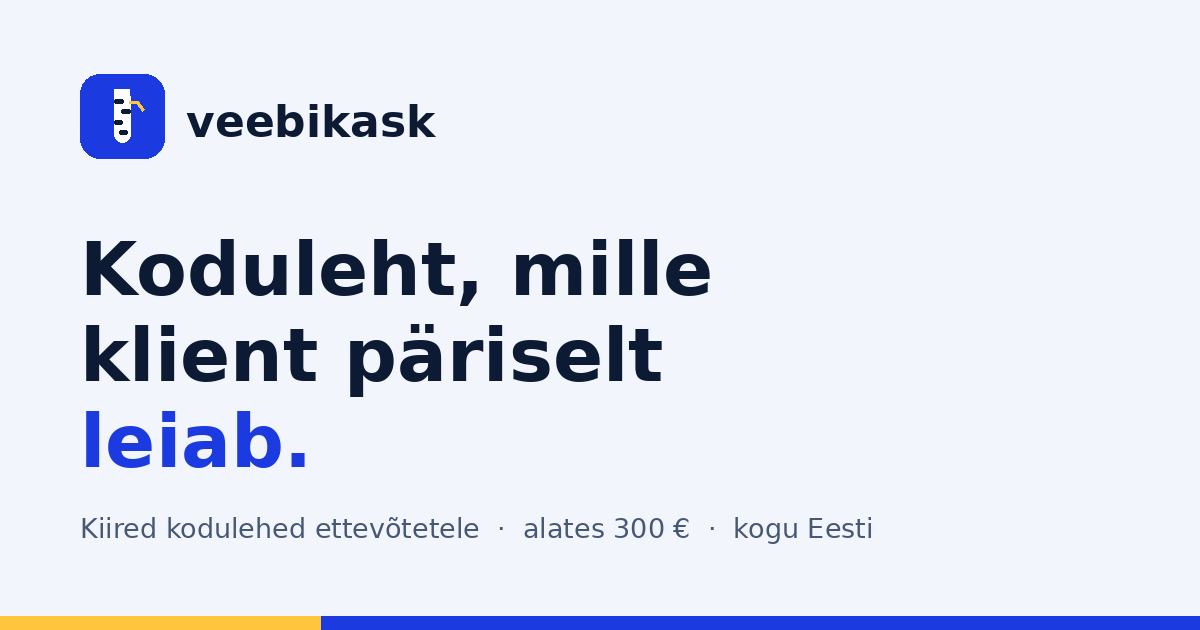
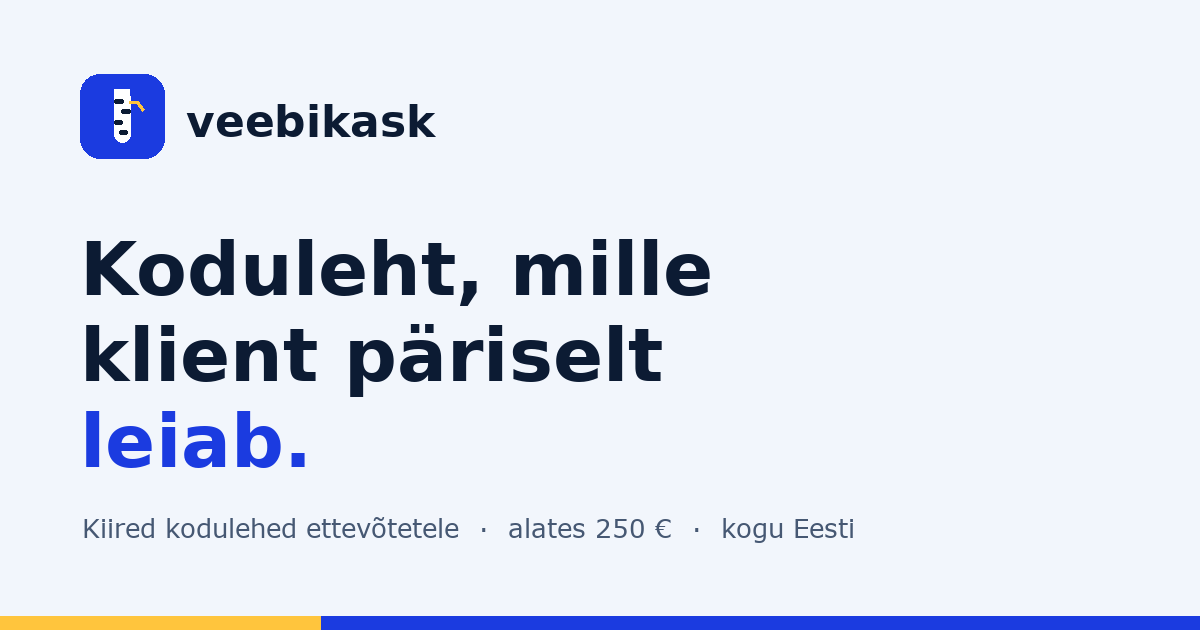
Langeta ühelehelise kodulehe hind 250 eurole

Changed region(s): [[0.0617, 0.8143, 0.4008, 0.8746], [0.4317, 0.8143, 0.74, 0.8746]]

diff --git a/index.html b/index.html
@@ -4,8 +4,8 @@
 <meta charset="utf-8">
 <meta name="viewport" content="width=device-width, initial-scale=1">
 
-<title>Kodulehe tegemine alates 300 € | Kiired kodulehed ettevõttele – Veebikask</title>
-<meta name="description" content="Kodulehe tegemine ettevõttele alates 300 €. Kiire, mobiilne ja Google'is leitav üheleheline koduleht kuni nädalaga. Teenindan kogu Eestit. Küsi hinnapakkumist.">
+<title>Kodulehe tegemine alates 250 € | Kiired kodulehed ettevõttele – Veebikask</title>
+<meta name="description" content="Kodulehe tegemine ettevõttele alates 250 €. Kiire, mobiilne ja Google'is leitav üheleheline koduleht kuni nädalaga. Teenindan kogu Eestit. Küsi hinnapakkumist.">
 <link rel="canonical" href="https://veebikask.ee/">
 <meta name="robots" content="index,follow,max-image-preview:large,max-snippet:-1">
 <meta name="author" content="Veebikask">
@@ -14,7 +14,7 @@
 <meta property="og:type" content="website">
 <meta property="og:site_name" content="Veebikask">
 <meta property="og:locale" content="et_EE">
-<meta property="og:title" content="Kodulehe tegemine alates 300 € | Veebikask">
+<meta property="og:title" content="Kodulehe tegemine alates 250 € | Veebikask">
 <meta property="og:description" content="Kiire ja Google'is leitav koduleht ettevõttele. Valmis kuni nädalaga. Teenindan kogu Eestit.">
 <meta property="og:url" content="https://veebikask.ee/">
 <meta property="og:image" content="https://veebikask.ee/pildid/jagapilt.png">
@@ -23,7 +23,7 @@
 <meta property="og:image:alt" content="Veebikase kodulehtede näidised sülearvuti ekraanil">
 
 <meta name="twitter:card" content="summary_large_image">
-<meta name="twitter:title" content="Kodulehe tegemine alates 300 € | Veebikask">
+<meta name="twitter:title" content="Kodulehe tegemine alates 250 € | Veebikask">
 <meta name="twitter:description" content="Kiire ja Google'is leitav koduleht ettevõttele. Valmis kuni nädalaga.">
 <meta name="twitter:image" content="https://veebikask.ee/pildid/jagapilt.png">
 
@@ -48,7 +48,7 @@
       "name":"Veebikask",
       "legalName":"Veebikask OÜ",
       "identifier":"17567171",
-      "description":"Kodulehtede tegemine ettevõtetele üle Eesti. Kiired, mobiilsed ja otsingumootoritele optimeeritud kodulehed alates 300 eurost.",
+      "description":"Kodulehtede tegemine ettevõtetele üle Eesti. Kiired, mobiilsed ja otsingumootoritele optimeeritud kodulehed alates 250 eurost.",
       "url":"https://veebikask.ee/",
       "telephone":"+37256938020",
       "email":"veebikask@gmail.com",
@@ -66,7 +66,7 @@
             "@type":"Offer",
             "name":"Üheleheline koduleht",
             "description":"Üks pikk leht kõige vajalikuga: tutvustus, teenused, galerii, kontakt. Tehniline SEO baas ja mobiilivaade sees.",
-            "price":"300","priceCurrency":"EUR",
+            "price":"250","priceCurrency":"EUR",
             "url":"https://veebikask.ee/pakett-uheleheline.html",
             "availability":"https://schema.org/InStock"
           },
@@ -94,7 +94,7 @@
       "@id":"https://veebikask.ee/#kkk",
       "mainEntity":[
         {"@type":"Question","name":"Kui palju maksab koduleht?",
-         "acceptedAnswer":{"@type":"Answer","text":"Üheleheline koduleht algab 300 eurost ja mitmeleheline äriline koduleht 500 eurost. Lisad nagu hinnapäringu vorm või broneerimiskalender maksavad 0–100 eurot olenevalt mahust. Lõplik hind sõltub sellest, kui palju sisu ja funktsioone vaja on."}},
+         "acceptedAnswer":{"@type":"Answer","text":"Üheleheline koduleht algab 250 eurost ja mitmeleheline äriline koduleht 500 eurost. Lisad nagu hinnapäringu vorm või broneerimiskalender maksavad 0–100 eurot olenevalt mahust. Lõplik hind sõltub sellest, kui palju sisu ja funktsioone vaja on."}},
         {"@type":"Question","name":"Kui kaua kodulehe tegemine aega võtab?",
          "acceptedAnswer":{"@type":"Answer","text":"Mõlemad paketid valmivad maksimaalselt nädalaga. See on ülempiir, mitte hinnang. Kiiruse määrab peamiselt see, kui ruttu saan sinult fotod ja info."}},
         {"@type":"Question","name":"Kas ma pean ise domeeni ja majutuse eest hoolitsema?",
@@ -135,14 +135,14 @@
       <div>
         <p class="silt">Kodulehed · kogu Eesti</p>
         <h1>Koduleht, mille klient <em>päriselt leiab</em>.</h1>
-        <p class="juhe">Teen kiireid ja korralikke kodulehti firmadele ja eraisikutele. Alates 300 eurost, valmis maksimaalselt nädalaga ja Google leiab su üles.</p>
+        <p class="juhe">Teen kiireid ja korralikke kodulehti firmadele ja eraisikutele. Alates 250 eurost, valmis maksimaalselt nädalaga ja Google leiab su üles.</p>
         <div class="hero-nupud">
           <a class="nupp" href="#paring">Küsi hinnapakkumist</a>
           <a class="nupp teine" href="#tood">Vaata tehtud töid</a>
         </div>
         <div class="usaldus">
           <div><b>1</b>nädal*</div>
-          <div><b>300 €</b>alghind</div>
+          <div><b>250 €</b>alghind</div>
           <div><b>100%</b>mobiilis töötav</div>
           <p class="taht">* kui fotod ja info on olemas</p>
         </div>
@@ -171,7 +171,7 @@
         <a class="kaart" href="pakett-uheleheline.html">
           <p class="kats">Pakett 01 · Üheleheline</p>
           <h3>Üks leht, kõik vajalik</h3>
-          <p class="hind">alates 300 €<small> / ühekordne</small></p>
+          <p class="hind">alates 250 €<small> / ühekordne</small></p>
           <ul>
             <li>Üks pikk leht ankurmenüüga</li>
             <li>Kuni kuus sektsiooni: tutvustus, teenused, tööd, kontakt</li>
@@ -306,7 +306,7 @@
           <label for="pakett">Milline pakett tundub sobivat?</label>
           <select id="pakett" name="pakett">
             <option value="Ei oska öelda">Ei oska veel öelda – soovita ise</option>
-            <option value="Üheleheline (alates 300 €)">Üheleheline – alates 300 €</option>
+            <option value="Üheleheline (alates 250 €)">Üheleheline – alates 250 €</option>
             <option value="Mitmeleheline (alates 500 €)">Mitmeleheline – alates 500 €</option>
           </select>
         </div>
@@ -397,7 +397,7 @@
       <div class="kkk">
         <details open>
           <summary>Kui palju koduleht maksab?</summary>
-          <p>Üheleheline algab 300 eurost, mitmeleheline 500 eurost. Lisad 0–100 € tükk, olenevalt mahust. Lõplik number sõltub sisu mahust – ütlen selle sulle enne alustamist välja, mitte pärast.</p>
+          <p>Üheleheline algab 250 eurost, mitmeleheline 500 eurost. Lisad 0–100 € tükk, olenevalt mahust. Lõplik number sõltub sisu mahust – ütlen selle sulle enne alustamist välja, mitte pärast.</p>
         </details>
         <details>
           <summary>Kui kaua see aega võtab?</summary>

diff --git a/pakett-uheleheline.html b/pakett-uheleheline.html
@@ -4,20 +4,20 @@
 <meta charset="utf-8">
 <meta name="viewport" content="width=device-width, initial-scale=1">
 
-<title>Üheleheline koduleht alates 300 € – mis on hinna sees | Veebikask</title>
-<meta name="description" content="Üheleheline koduleht ettevõttele alates 300 €. Vaata täpselt, mis hinna sees on: tehniline SEO baas, mobiilivaade, galerii, domeeni seadistus. Valmis maksimaalselt nädalaga.">
+<title>Üheleheline koduleht alates 250 € – mis on hinna sees | Veebikask</title>
+<meta name="description" content="Üheleheline koduleht ettevõttele alates 250 €. Vaata täpselt, mis hinna sees on: tehniline SEO baas, mobiilivaade, galerii, domeeni seadistus. Valmis maksimaalselt nädalaga.">
 <link rel="canonical" href="https://veebikask.ee/pakett-uheleheline.html">
 <meta name="robots" content="index,follow,max-image-preview:large">
 
 <meta property="og:type" content="article">
 <meta property="og:site_name" content="Veebikask">
 <meta property="og:locale" content="et_EE">
-<meta property="og:title" content="Üheleheline koduleht alates 300 € – mis on hinna sees">
-<meta property="og:description" content="Täpne ülevaade sellest, mida 300 euro eest saad ja mida ei saa.">
+<meta property="og:title" content="Üheleheline koduleht alates 250 € – mis on hinna sees">
+<meta property="og:description" content="Täpne ülevaade sellest, mida 250 euro eest saad ja mida ei saa.">
 <meta property="og:url" content="https://veebikask.ee/pakett-uheleheline.html">
 <meta property="og:image" content="https://veebikask.ee/pildid/jagapilt.png">
 <meta name="twitter:card" content="summary_large_image">
-<meta name="twitter:title" content="Üheleheline koduleht alates 300 €">
+<meta name="twitter:title" content="Üheleheline koduleht alates 250 €">
 <meta name="twitter:description" content="Mis on hinna sees ja mis mitte.">
 <meta name="twitter:image" content="https://veebikask.ee/pildid/jagapilt.png">
 
@@ -43,7 +43,7 @@
       "provider":{"@type":"ProfessionalService","name":"Veebikask","legalName":"Veebikask OÜ","identifier":"17567171","telephone":"+37256938020","url":"https://veebikask.ee/"},
       "areaServed":{"@type":"Country","name":"Eesti"},
       "description":"Üks pikk koduleht ankurmenüüga ettevõttele. Sisaldab tehnilist SEO baasi, mobiilivaadet, fotogaleriid ja domeeni seadistust.",
-      "offers":{"@type":"Offer","price":"300","priceCurrency":"EUR","url":"https://veebikask.ee/pakett-uheleheline.html","availability":"https://schema.org/InStock"}
+      "offers":{"@type":"Offer","price":"250","priceCurrency":"EUR","url":"https://veebikask.ee/pakett-uheleheline.html","availability":"https://schema.org/InStock"}
     },
     {
       "@type":"BreadcrumbList",
@@ -77,7 +77,7 @@
     <div class="kest">
       <p class="leivapuru"><a href="index.html">Avaleht</a> / Üheleheline koduleht</p>
       <p class="silt">Pakett 01</p>
-      <h1 style="max-width:17ch">Üheleheline koduleht alates 300 €</h1>
+      <h1 style="max-width:17ch">Üheleheline koduleht alates 250 €</h1>
       <p class="juhe" style="margin-top:16px">Üks pikk leht, kus on kõik olulisem: kes sa oled, mida teed, millised tööd on tehtud ja kuidas ühendust võtta. Sobib firmale, kellel praegu kodulehte pole või kellel on ainult Facebooki leht.</p>
       <p style="margin-top:26px"><a class="nupp" href="index.html#paring">Küsi hinnapakkumist</a></p>
     </div>

diff --git a/koduleht-ehitusfirmale.html b/koduleht-ehitusfirmale.html
@@ -5,7 +5,7 @@
 <meta name="viewport" content="width=device-width, initial-scale=1">
 
 <title>Koduleht ehitusfirmale &ndash; mida see peab sisaldama? | Veebikask</title>
-<meta name="description" content="Koduleht ehitusfirmale alates 300 &euro;. Mida ehitusettevõtte koduleht peab sisaldama, miks fotod on olulisemad kui tekst ja kuidas jõuda Google'i pildiotsingusse.">
+<meta name="description" content="Koduleht ehitusfirmale alates 250 &euro;. Mida ehitusettevõtte koduleht peab sisaldama, miks fotod on olulisemad kui tekst ja kuidas jõuda Google'i pildiotsingusse.">
 <link rel="canonical" href="https://veebikask.ee/koduleht-ehitusfirmale.html">
 <meta name="robots" content="index,follow,max-image-preview:large,max-snippet:-1">
 
@@ -39,7 +39,7 @@
     {
       "@type":"Article",
       "headline":"Koduleht ehitusfirmale",
-      "description":"Koduleht ehitusfirmale alates 300 &euro;. Mida ehitusettevõtte koduleht peab sisaldama, miks fotod on olulisemad kui tekst ja kuidas jõuda Google'i pildiotsingusse.",
+      "description":"Koduleht ehitusfirmale alates 250 &euro;. Mida ehitusettevõtte koduleht peab sisaldama, miks fotod on olulisemad kui tekst ja kuidas jõuda Google'i pildiotsingusse.",
       "inLanguage":"et",
       "datePublished":"2026-08-01",
       "dateModified":"2026-08-01",
@@ -115,7 +115,7 @@
         <p>Kui teed peamiselt üht tüüpi tööd, piisab ühest lehest. Kui teenuseid on neli-viis erinevat, tasub igaühele oma leht, sest siis võistleb iga leht oma otsingu peale. Vaata <a href="artikkel-uks-voi-mitu-lehte.html">ühelehelise ja mitmelehelise võrdlust</a>.</p>
 
         <h2>Mida see maksab</h2>
-        <p>Üheleheline ehitusfirma koduleht galeriiga algab 300 eurost ja valmib maksimaalselt nädalaga. Mitmeleheline versioon eraldi teenuselehtedega algab 500 eurost. Täpsemalt: <a href="artikkel-kodulehe-hind.html">kui palju koduleht Eestis maksab</a>.</p>
+        <p>Üheleheline ehitusfirma koduleht galeriiga algab 250 eurost ja valmib maksimaalselt nädalaga. Mitmeleheline versioon eraldi teenuselehtedega algab 500 eurost. Täpsemalt: <a href="artikkel-kodulehe-hind.html">kui palju koduleht Eestis maksab</a>.</p>
         <p>Ainus asi, mida ma sinult vajan, on fotod ja pool tundi juttu selle kohta, mida sa teed. Tekstid kirjutan ise.</p>
 
 

diff --git a/koduleht-elektrikule.html b/koduleht-elektrikule.html
@@ -5,7 +5,7 @@
 <meta name="viewport" content="width=device-width, initial-scale=1">
 
 <title>Koduleht elektrikule ja elektritööde firmale | Veebikask</title>
-<meta name="description" content="Koduleht elektrikule alates 300 &euro;. Miks elektritööde puhul on usaldus ja pädevustunnistus olulisem kui kujundus ning kuidas jõuda kohalikku otsingusse.">
+<meta name="description" content="Koduleht elektrikule alates 250 &euro;. Miks elektritööde puhul on usaldus ja pädevustunnistus olulisem kui kujundus ning kuidas jõuda kohalikku otsingusse.">
 <link rel="canonical" href="https://veebikask.ee/koduleht-elektrikule.html">
 <meta name="robots" content="index,follow,max-image-preview:large,max-snippet:-1">
 
@@ -39,7 +39,7 @@
     {
       "@type":"Article",
       "headline":"Koduleht elektrikule",
-      "description":"Koduleht elektrikule alates 300 &euro;. Miks elektritööde puhul on usaldus ja pädevustunnistus olulisem kui kujundus ning kuidas jõuda kohalikku otsingusse.",
+      "description":"Koduleht elektrikule alates 250 &euro;. Miks elektritööde puhul on usaldus ja pädevustunnistus olulisem kui kujundus ning kuidas jõuda kohalikku otsingusse.",
       "inLanguage":"et",
       "datePublished":"2026-08-01",
       "dateModified":"2026-08-01",
@@ -108,7 +108,7 @@
         <p>Profiil on tasuta ja selle seadistamine võtab tunni. Arvustused mõjutavad järjestust tugevalt, nii et küsi neid rahulolevatelt klientidelt kohe töö lõpus, kui hea tunne on veel värske. Profiili saad ise seadistada, see on tasuta ja võtab tunni.</p>
 
         <h2>Mida see maksab</h2>
-        <p>Üheleheline elektriku koduleht algab 300 eurost ja valmib maksimaalselt nädalaga. Kui tahad eraldi lehti erinevate tööliikide kohta ja Google'i profiili seadistust, on see 500 eurost.</p>
+        <p>Üheleheline elektriku koduleht algab 250 eurost ja valmib maksimaalselt nädalaga. Kui tahad eraldi lehti erinevate tööliikide kohta ja Google'i profiili seadistust, on see 500 eurost.</p>
         <p>Vaata ka: <a href="artikkel-kodulehe-hind.html">kui palju koduleht Eestis maksab</a> ja <a href="artikkel-ei-ilmu-googles.html">miks firma ei ilmu Google'is</a>.</p>
 
 

diff --git a/kodulehe-uuendamine.html b/kodulehe-uuendamine.html
@@ -5,7 +5,7 @@
 <meta name="viewport" content="width=device-width, initial-scale=1">
 
 <title>Kodulehe uuendamine &ndash; millal tasub ja mida see maksab | Veebikask</title>
-<meta name="description" content="Kodulehe uuendamine alates 300 &euro;. Viis märki, et vana leht vajab vahetamist. Võrdlus: kas parandada olemasolevat või teha uus.">
+<meta name="description" content="Kodulehe uuendamine alates 250 &euro;. Viis märki, et vana leht vajab vahetamist. Võrdlus: kas parandada olemasolevat või teha uus.">
 <link rel="canonical" href="https://veebikask.ee/kodulehe-uuendamine.html">
 <meta name="robots" content="index,follow,max-image-preview:large,max-snippet:-1">
 
@@ -39,7 +39,7 @@
     {
       "@type":"Article",
       "headline":"Kodulehe uuendamine",
-      "description":"Kodulehe uuendamine alates 300 &euro;. Viis märki, et vana leht vajab vahetamist. Võrdlus: kas parandada olemasolevat või teha uus.",
+      "description":"Kodulehe uuendamine alates 250 &euro;. Viis märki, et vana leht vajab vahetamist. Võrdlus: kas parandada olemasolevat või teha uus.",
       "inLanguage":"et",
       "datePublished":"2026-08-01",
       "dateModified":"2026-08-01",
@@ -123,7 +123,7 @@
         <p>Peaaegu alati saab üle tuua tekstid, fotod, klientide tagasiside ja domeeni. Domeeni ei ole vaja vahetada &ndash; vana domeen on väärtuslik just seetõttu, et ta on vana.</p>
 
         <h2>Mida see maksab</h2>
-        <p>Uuendamine maksab sama palju kui uus leht: alates 300 eurost üheleheline, alates 500 eurost mitmeleheline. Ainus vahe on, et sisu on tavaliselt juba olemas, mis kiirendab tööd.</p>
+        <p>Uuendamine maksab sama palju kui uus leht: alates 250 eurost üheleheline, alates 500 eurost mitmeleheline. Ainus vahe on, et sisu on tavaliselt juba olemas, mis kiirendab tööd.</p>
         <p>Saada mulle oma praeguse lehe aadress ja ma ütlen sulle ausalt, kas tasub uuendada või piisab paarist parandusest. Kui piisab, ütlen sedagi.</p>
 
 

diff --git a/404.html b/404.html
@@ -59,7 +59,7 @@
         </p>
 
         <h2>Või küsi kohe pakkumist</h2>
-        <p>Kui otsisid hinnainfot, siis üheleheline koduleht algab 300 eurost ja mitmeleheline 500 eurost. Kirjuta <a href="mailto:veebikask@gmail.com">veebikask@gmail.com</a> või helista <a href="tel:+37256938020">+372 5693 8020</a>.</p>
+        <p>Kui otsisid hinnainfot, siis üheleheline koduleht algab 250 eurost ja mitmeleheline 500 eurost. Kirjuta <a href="mailto:veebikask@gmail.com">veebikask@gmail.com</a> või helista <a href="tel:+37256938020">+372 5693 8020</a>.</p>
       </article>
     </div>
   </section>

diff --git a/README.md b/README.md
@@ -7,7 +7,7 @@ Ei vaja ehitusprotsessi ega raamistikku – puhas HTML, CSS ja JS.
 
 ```
 index.html                    avaleht (hero, hinnad, tööd, KKK, vorm, kontakt)
-pakett-uheleheline.html       300 € paketi kirjeldus + elektritööde näide
+pakett-uheleheline.html       250 € paketi kirjeldus + elektritööde näide
 pakett-arileht.html           500 € paketi kirjeldus + arhitektuuribüroo viis lehte kõrvuti
 artiklid.html                 artiklite nimekiri
 artikkel-kodulehe-hind.html   artikkel: kodulehe hind

diff --git a/MASTER-PROMPTID.md b/MASTER-PROMPTID.md
@@ -10,7 +10,7 @@ Nii saad kaks varianti võrrelda, selle asemel et algusest ühte lahtrisse jää
 
 ---
 
-# PAKETT 01: üheleheline koduleht (alates 300 EUR)
+# PAKETT 01: üheleheline koduleht (alates 250 EUR)
 
 ```
 Ehita üheleheline koduleht Eesti väikeettevõttele. Puhas HTML, CSS ja
